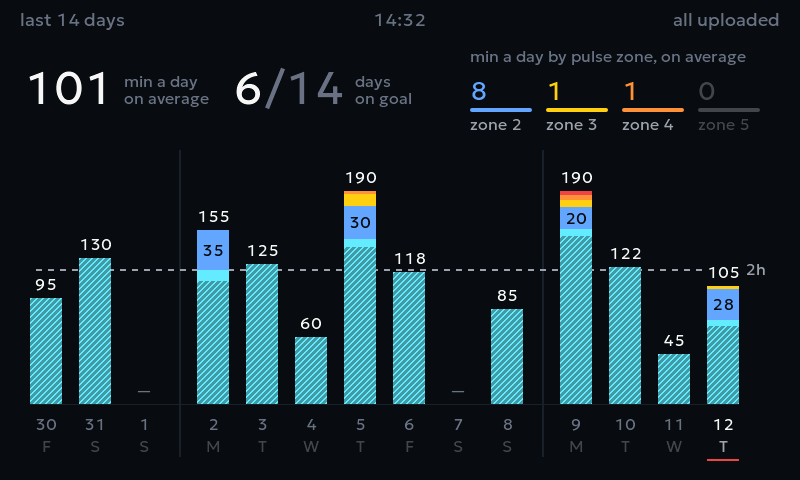
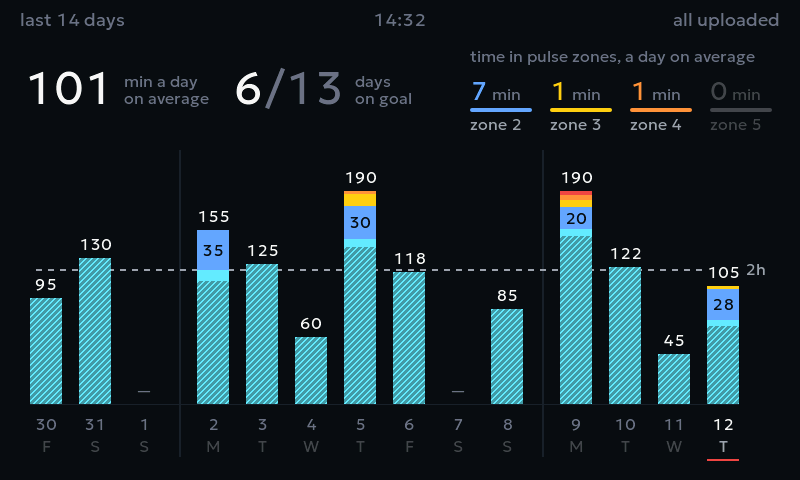
feat: count the two-week totals over full days, mark zone minutes
The average day, its minutes by pulse zone and the days on goal now count
only days that are over: today keeps its bar but joins the totals the next
day, so a morning without a walk yet no longer pulls them down. Before the
first full day the page says so instead of showing zeros.

Each zone's number gets a "min" after it and the caption reads "time in
pulse zones", so the numbers no longer read as a pulse.

diff --git a/test/test_stats/test_stats.cpp b/test/test_stats/test_stats.cpp
@@ -49,8 +49,8 @@ void test_fourteen_days_end_today_with_weekdays() {
     TEST_ASSERT_EQUAL(12, w.days.back().dayOfMonth);
     TEST_ASSERT_EQUAL(20261102, w.days[3].key);
     TEST_ASSERT_EQUAL(0, w.days[3].weekday);  // Monday
-    TEST_ASSERT_EQUAL(14, w.trackedDays);
-    TEST_ASSERT_EQUAL(0, w.firstKey);  // the history covers the whole window
+    TEST_ASSERT_EQUAL(13, w.fullDays);  // today is not over yet
+    TEST_ASSERT_EQUAL(0, w.firstKey);   // the history covers the whole window
 }
 
 void test_days_before_the_history_are_not_tracked() {
@@ -63,36 +63,66 @@ void test_days_before_the_history_are_not_tracked() {
     const stats::Window w = stats::lastDays(walks, nullptr, walks[0].startEpoch,
                                             utc("2026-11-12T21:40:00Z"), 0, kGoal);
     TEST_ASSERT_EQUAL(20261111, w.firstKey);
-    TEST_ASSERT_EQUAL(2, w.trackedDays);
+    TEST_ASSERT_EQUAL(1, w.fullDays);  // the 11th; the 12th is today
     TEST_ASSERT_FALSE(w.days[11].tracked);
     TEST_ASSERT_TRUE(w.days[12].tracked);
     TEST_ASSERT_EQUAL_UINT32(900 + 2400, w.days[12].walkSeconds);
     TEST_ASSERT_EQUAL_UINT32(2400, w.days[12].pulseSeconds);
     TEST_ASSERT_EQUAL_UINT32(1800 + 1300, w.days[13].walkSeconds);
     TEST_ASSERT_EQUAL_UINT32(1560, w.zoneSeconds[2]);
-    TEST_ASSERT_EQUAL_UINT32(60 + 1000, w.zoneSeconds[0]);
-    TEST_ASSERT_EQUAL_UINT32((900 + 2400 + 1800 + 1300) / 2, w.averageSeconds);
+    TEST_ASSERT_EQUAL_UINT32(60, w.zoneSeconds[0]);
+    TEST_ASSERT_EQUAL_UINT32(900 + 2400, w.averageSeconds);
     TEST_ASSERT_EQUAL(0, w.goalDays);
 }
 
 void test_goal_days_and_average_count_days_without_walks() {
     const std::vector<Entry> walks = {
-        walkAt("2026-11-10T08:00:00Z", kGoal),       // on goal
-        walkAt("2026-11-12T08:00:00Z", kGoal + 60),  // over it
+        walkAt("2026-11-09T08:00:00Z", kGoal),       // on goal
+        walkAt("2026-11-11T08:00:00Z", kGoal + 60),  // over it
     };
-    const stats::Window w = stats::lastDays(walks, nullptr, utc("2026-11-10T08:00:00Z"),
+    const stats::Window w = stats::lastDays(walks, nullptr, utc("2026-11-09T08:00:00Z"),
                                             utc("2026-11-12T21:40:00Z"), 0, kGoal);
-    TEST_ASSERT_EQUAL(3, w.trackedDays);  // the 11th, with no walk, counts too
+    TEST_ASSERT_EQUAL(3, w.fullDays);  // the 10th, with no walk, counts too
     TEST_ASSERT_EQUAL(2, w.goalDays);
     TEST_ASSERT_EQUAL_UINT32((2 * kGoal + 60) / 3, w.averageSeconds);
 }
 
-void test_walk_in_progress_counts_today() {
+void test_walk_in_progress_shows_on_todays_bar() {
     const Entry live = walkAt("2026-11-12T21:00:00Z", 600, 600, {0, 0, 600, 0, 0, 0});
     const stats::Window w = stats::lastDays({}, &live, utc("2026-11-11T10:00:00Z"),
                                             utc("2026-11-12T21:40:00Z"), 0, kGoal);
     TEST_ASSERT_EQUAL_UINT32(600, w.days.back().walkSeconds);
-    TEST_ASSERT_EQUAL_UINT32(600, w.zoneSeconds[2]);
+    TEST_ASSERT_EQUAL_UINT32(600, w.days.back().zoneSeconds[2]);
+}
+
+// Today shows on its bar but stays out of the totals until it is over: a
+// morning without a walk yet would pull the averages down.
+void test_today_stays_out_of_the_totals() {
+    const std::vector<Entry> walks = {
+        walkAt("2026-11-11T10:00:00Z", 3000, 3000, {0, 1200, 1800, 0, 0, 0}),
+        walkAt("2026-11-12T10:00:00Z", kGoal, kGoal, {0, 0, kGoal, 0, 0, 0}),
+    };
+    const stats::Window w = stats::lastDays(walks, nullptr, walks[0].startEpoch,
+                                            utc("2026-11-12T21:40:00Z"), 0, kGoal);
+    TEST_ASSERT_EQUAL_UINT32(kGoal, w.days.back().walkSeconds);
+    TEST_ASSERT_EQUAL(1, w.fullDays);
+    TEST_ASSERT_EQUAL(0, w.goalDays);
+    TEST_ASSERT_EQUAL_UINT32(3000, w.averageSeconds);
+    TEST_ASSERT_EQUAL_UINT32(1800, w.zoneSeconds[2]);
+}
+
+// The day ends at the reset hour: at 02:00 with a 4 o'clock reset, yesterday
+// is still today.
+void test_today_ends_at_the_reset_hour() {
+    const std::vector<Entry> walks = {walkAt("2026-11-11T10:00:00Z", 3000)};
+    const stats::Window before = stats::lastDays(walks, nullptr, utc("2026-11-10T10:00:00Z"),
+                                                 utc("2026-11-12T02:00:00Z"), 4, kGoal);
+    TEST_ASSERT_EQUAL(1, before.fullDays);  // the 10th
+    TEST_ASSERT_EQUAL_UINT32(0, before.averageSeconds);
+    const stats::Window after = stats::lastDays(walks, nullptr, utc("2026-11-10T10:00:00Z"),
+                                                utc("2026-11-12T05:00:00Z"), 4, kGoal);
+    TEST_ASSERT_EQUAL(2, after.fullDays);
+    TEST_ASSERT_EQUAL_UINT32(1500, after.averageSeconds);
 }
 
 void test_walk_past_midnight_counts_on_its_first_day() {
@@ -109,7 +139,7 @@ void test_walks_outside_the_window_are_left_out() {
     const stats::Window w = stats::lastDays(walks, nullptr, walks[0].startEpoch,
                                             utc("2026-11-12T21:40:00Z"), 0, kGoal);
     TEST_ASSERT_EQUAL_UINT32(1000, w.days.front().walkSeconds);
-    TEST_ASSERT_EQUAL_UINT32(1000 / 14, w.averageSeconds);
+    TEST_ASSERT_EQUAL_UINT32(1000 / 13, w.averageSeconds);
 }
 
 // Summer time starts on 2026-03-29: that day has 23 hours and still gets its slot.
@@ -123,7 +153,8 @@ void test_short_day_of_summer_time_keeps_its_slot() {
 
 void test_without_history_only_today_is_tracked() {
     const stats::Window w = stats::lastDays({}, nullptr, 0, utc("2026-11-12T21:40:00Z"), 0, kGoal);
-    TEST_ASSERT_EQUAL(1, w.trackedDays);
+    TEST_ASSERT_EQUAL(0, w.fullDays);  // no totals before the first full day
+    TEST_ASSERT_EQUAL_UINT32(0, w.averageSeconds);
     TEST_ASSERT_EQUAL(20261112, w.firstKey);
     TEST_ASSERT_TRUE(w.days.back().tracked);
     TEST_ASSERT_FALSE(w.days[12].tracked);
@@ -139,7 +170,9 @@ int main(int, char**) {
     RUN_TEST(test_fourteen_days_end_today_with_weekdays);
     RUN_TEST(test_days_before_the_history_are_not_tracked);
     RUN_TEST(test_goal_days_and_average_count_days_without_walks);
-    RUN_TEST(test_walk_in_progress_counts_today);
+    RUN_TEST(test_walk_in_progress_shows_on_todays_bar);
+    RUN_TEST(test_today_stays_out_of_the_totals);
+    RUN_TEST(test_today_ends_at_the_reset_hour);
     RUN_TEST(test_walk_past_midnight_counts_on_its_first_day);
     RUN_TEST(test_walks_outside_the_window_are_left_out);
     RUN_TEST(test_short_day_of_summer_time_keeps_its_slot);

diff --git a/lib/screen/screen.cpp b/lib/screen/screen.cpp
@@ -104,7 +104,7 @@ constexpr int32_t kWalkMinutesGap = 6;  // least room between two walks' minutes
 constexpr int32_t kStatsNumberBaseline = 104;
 constexpr int32_t kAverageX = 24, kGoalX = 200;  // the days on goal move right past a long average
 constexpr int32_t kStatsBlockGap = 24;
-constexpr int32_t kZonesX = 470, kZoneColW = 76, kZoneLineW = 62, kZoneLineH = 4;
+constexpr int32_t kZonesX = 470, kZoneColW = 80, kZoneLineW = 62, kZoneLineH = 4;
 constexpr int32_t kZonesCaptionBaseline = 62, kZoneMinutesBaseline = 100, kZoneLineY = 108;
 constexpr int32_t kZoneNameBaseline = 130;
 constexpr int32_t kBarsTop = 168, kBarsBase = 404;  // the longest day reaches kBarsTop
@@ -587,10 +587,12 @@ void Dashboard::buildStats() {
     goalCaption_ = makeLabel(b, &geo_16, kMuted, Align::Left, kGoalX, kStatsNumberBaseline, 150,
                              "days\non goal");
     zonesCaption_ = makeLabel(b, &geo_16, kMuted, Align::Left, kZonesX, kZonesCaptionBaseline, 320,
-                              "min a day by pulse zone, on average");
+                              "time in pulse zones, a day on average");
     for (int i = 0; i < 4; ++i) {
         const int32_t x = kZonesX + i * kZoneColW;
         zoneMinutes_[i] = makeLabel(b, &geo_26, kOffDim, Align::Left, x, kZoneMinutesBaseline, kZoneColW);
+        // "min" after the number, so it does not read as a pulse
+        zoneUnits_[i] = makeLabel(b, &geo_16, kOffDim, Align::Left, x, kZoneMinutesBaseline, kZoneColW, "min");
         zoneLines_[i] = makeBox(b);
         lv_obj_set_pos(zoneLines_[i], x, kZoneLineY);
         lv_obj_set_size(zoneLines_[i], kZoneLineW, kZoneLineH);
@@ -598,6 +600,8 @@ void Dashboard::buildStats() {
         zoneNames_[i] = makeLabel(b, &geo_16, kOffDim, Align::Left, x, kZoneNameBaseline, kZoneColW,
                                   ("zone " + std::to_string(i + 2)).c_str());
     }
+    noFullDay_ = makeLabel(b, &geo_16, kMuted, Align::Left, kAverageX, kZoneMinutesBaseline, 600,
+                           "Averages start after the first full day");
 
     bars_ = makeBox(b);
     lv_obj_set_pos(bars_, 0, kDividerTop);
@@ -1095,6 +1099,16 @@ void Dashboard::layoutStats() {
     setText(statsSince_, w.firstKey ? "since " + stats::shortDate(w.firstKey)
                                     : "last " + std::to_string(n) + " days");
 
+    // The totals count full days only; before the first one, a line instead.
+    const bool totals = w.fullDays > 0;
+    setVisible(noFullDay_, !totals);
+    for (lv_obj_t* o : {average_, averageCaption_, goalDays_, goalOf_, goalCaption_, zonesCaption_}) {
+        setVisible(o, totals);
+    }
+    for (int i = 0; i < 4; ++i) {
+        for (lv_obj_t* o : {zoneMinutes_[i], zoneUnits_[i], zoneLines_[i], zoneNames_[i]}) setVisible(o, totals);
+    }
+
     // "93 min a day on average", "3/7 days on goal": the captions follow the
     // numbers, their second line on the numbers' baseline.
     const int32_t captionBaseline = kStatsNumberBaseline - geo_16.line_height;
@@ -1104,7 +1118,7 @@ void Dashboard::layoutStats() {
     place(averageCaption_, Align::Left, captionX, captionBaseline, 150);
     const int32_t goalX =
         std::max(kGoalX, captionX + textWidth(lv_label_get_text(averageCaption_), &geo_16) + kStatsBlockGap);
-    const std::string got = std::to_string(w.goalDays), of = "/" + std::to_string(w.trackedDays);
+    const std::string got = std::to_string(w.goalDays), of = "/" + std::to_string(w.fullDays);
     setText(goalDays_, got);
     place(goalDays_, Align::Left, goalX, kStatsNumberBaseline, 100);
     setText(goalOf_, of);
@@ -1117,10 +1131,14 @@ void Dashboard::layoutStats() {
     // minute a day in gray.
     for (int i = 0; i < 4; ++i) {
         const int z = i + 2;
-        const uint32_t minutes = minutesADay(w.zoneSeconds[z], w.trackedDays);
+        const uint32_t minutes = minutesADay(w.zoneSeconds[z], w.fullDays);
         const bool any = minutes > 0;
-        setText(zoneMinutes_[i], std::to_string(minutes));
+        const std::string number = std::to_string(minutes);
+        setText(zoneMinutes_[i], number);
         setTextColor(zoneMinutes_[i], any ? kZoneColor[z] : kOffDim);
+        place(zoneUnits_[i], Align::Left, kZonesX + i * kZoneColW + textWidth(number.c_str(), &geo_26) + 4,
+              kZoneMinutesBaseline, kZoneColW);
+        setTextColor(zoneUnits_[i], any ? kMuted : kOffDim);
         setBg(zoneLines_[i], any ? kZoneColor[z] : kOffDim, LV_OPA_COVER);
         setTextColor(zoneNames_[i], any ? kLineLabel : kOffDim);
     }

diff --git a/lib/stats/stats.cpp b/lib/stats/stats.cpp
@@ -77,13 +77,13 @@ Window lastDays(const std::vector<archive::Entry>& entries, const archive::Entry
 
     uint32_t total = 0;
     for (const Day& d : w.days) {
-        if (!d.tracked) continue;
-        ++w.trackedDays;
+        if (!d.tracked || d.key == todayKey) continue;  // today is not over yet
+        ++w.fullDays;
         if (d.walkSeconds >= goalSeconds) ++w.goalDays;
         total += d.walkSeconds;
         for (size_t z = 0; z < w.zoneSeconds.size(); ++z) w.zoneSeconds[z] += d.zoneSeconds[z];
     }
-    if (w.trackedDays > 0) w.averageSeconds = total / w.trackedDays;
+    if (w.fullDays > 0) w.averageSeconds = total / w.fullDays;
     if (firstKey > w.days.front().key) w.firstKey = firstKey;
     return w;
 }

diff --git a/lib/screen/screen.h b/lib/screen/screen.h
@@ -206,8 +206,10 @@ class Dashboard {
     lv_obj_t* goalCaption_ = nullptr;
     lv_obj_t* zonesCaption_ = nullptr;
     lv_obj_t* zoneMinutes_[4] = {};  // zones 2..5
+    lv_obj_t* zoneUnits_[4] = {};    // "min" after each
     lv_obj_t* zoneLines_[4] = {};
     lv_obj_t* zoneNames_[4] = {};
+    lv_obj_t* noFullDay_ = nullptr;  // in place of the totals before the first full day
     lv_obj_t* bars_ = nullptr;
     lv_obj_t* goalLabel_ = nullptr;  // "2h" at the goal line
     std::vector<lv_obj_t*> barMinutes_;

diff --git a/lib/stats/stats.h b/lib/stats/stats.h
@@ -31,8 +31,9 @@ struct Day {
 
 struct Window {
     std::vector<Day> days;  // oldest first; the last one is today
-    // Over the tracked days, today included.
-    int trackedDays = 0;
+    // Over the full days: tracked and over, so not today. A morning without a
+    // walk yet would pull the averages down; today joins them tomorrow.
+    int fullDays = 0;
     int goalDays = 0;  // at or over the daily goal
     uint32_t averageSeconds = 0;
     std::array<uint32_t, pulse::kZoneCount + 1> zoneSeconds{};

diff --git a/lib/screen/screen_demo.cpp b/lib/screen/screen_demo.cpp
@@ -169,6 +169,9 @@ stats::Window statsScene(int i, uint32_t goalSeconds) {
         walk(0, 70);
         walk(0, 30, 30, {16, 14, 0, 0, 0, 0});
         start = kNov12 - kDay;
+    } else if (i == 2) {  // the history began today: no full day yet
+        walk(0, 40, 40, {2, 14, 24, 0, 0, 0});
+        start = kNov12 + 12 * 3600;
     } else {
         const uint32_t plain[14] = {95, 130, 0, 110, 125, 60, 140, 118, 0, 85, 150, 122, 45, 70};
         for (int d = 0; d < 14; ++d) {

diff --git a/lib/screen/screen_demo.h b/lib/screen/screen_demo.h
@@ -17,8 +17,8 @@ Model scene(int i, uint32_t goalSeconds);
 
 // The statistics page on 2026-11-12, local days as the process time zone has
 // them: 0 = the history began yesterday (two days of walks), 1 = two full
-// weeks with every kind of day.
-constexpr int kStatsSceneCount = 2;
+// weeks with every kind of day, 2 = the history began today (no full day yet).
+constexpr int kStatsSceneCount = 3;
 stats::Window statsScene(int i, uint32_t goalSeconds);
 
 }  // namespace demo

diff --git a/docs/how-it-works.md b/docs/how-it-works.md
@@ -57,7 +57,7 @@ Each line: start, end, walking time, steps, distance, elevation gain, walking se
 
 A walk that ends before the board knows the time gets its line once the clock is set; if the power goes before that, it has none (just as it is missing from the day ring). A walk recovered after a power loss gets its line at the next power-on.
 
-**The statistics page** (a sideways swipe on the dashboard) shows the last 14 days from this history plus the walk in progress. A walk counts on the day it started, as on the day ring. The average day, its minutes by pulse zone and the days on goal count the days since the history began, today included; days before it show no bar, a day without walking shows a dash. The dashboard comes back when the belt starts.
+**The statistics page** (a sideways swipe on the dashboard) shows the last 14 days from this history plus the walk in progress. A walk counts on the day it started, as on the day ring. The average day, its minutes by pulse zone and the days on goal count the full days since the history began: today shows its bar but joins the totals only once it is over, so a morning without a walk yet does not pull them down. Before the first full day the page says so instead of showing totals. Days before the history show no bar, a day without walking shows a dash. The dashboard comes back when the belt starts.
 
 **Walks from before the history.** Their per-second logs are in the cloud, and a computer-side tool turns them into history lines with the same code the board runs:
 

diff --git a/README.md b/README.md
@@ -24,7 +24,7 @@ A big, glanceable second screen for your treadmill: walking time, a daily goal r
 |---|---|---|
 | ![Pulse above the interval threshold](docs/images/interval.png) | ![Daily goal met: second lap, today's total as 2h 31m](docs/images/goal-met.png) | ![After the walk, two walks waiting for upload](docs/images/after-walk.png) |
 
-**Swipe sideways for the last two weeks.** One bar per day: the striped part is walking without the strap, the colors above it are the pulse zones, with each zone's minutes inside when they fit. On top, your average day, how many days reached the goal, and how many minutes of the average day fall into zones 2 to 5.
+**Swipe sideways for the last two weeks.** One bar per day: the striped part is walking without the strap, the colors above it are the pulse zones, with each zone's minutes inside when they fit. On top, over the full days (today joins tomorrow): your average day, how many days reached the goal, and how many minutes of the average day fall into zones 2 to 5.
 
 ![The last two weeks: a bar per day split by pulse zone, the average day and the days on goal](docs/images/two-weeks.png)
 
